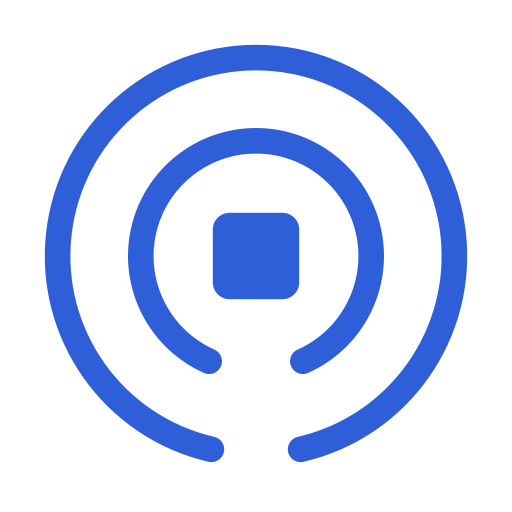
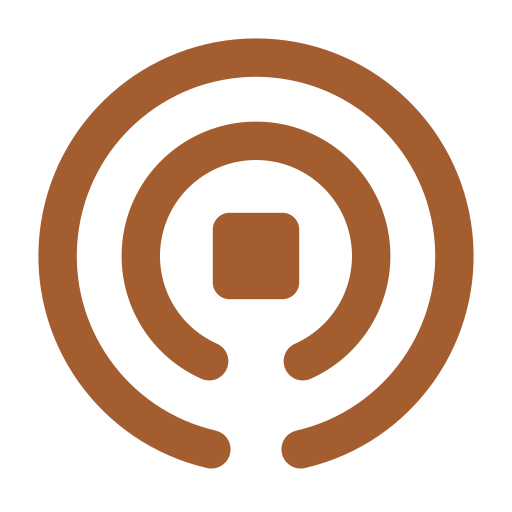
feat(frontend): an earthier palette and a bolder mark

diff --git a/frontend/src/index.css b/frontend/src/index.css
@@ -7,32 +7,32 @@
    sistem" — so removing the attribute always lands somewhere valid. */
 :root {
   --radius: 0.625rem;
-  --background: oklch(0.985 0.002 247);
-  --foreground: oklch(0.21 0.006 285);
-  --card: oklch(1 0 0);
-  --card-foreground: oklch(0.21 0.006 285);
-  --popover: oklch(1 0 0);
-  --popover-foreground: oklch(0.21 0.006 285);
-  --primary: oklch(0.51 0.17 264);
-  --primary-foreground: oklch(0.98 0.005 264);
-  --secondary: oklch(0.967 0.001 286);
-  --secondary-foreground: oklch(0.21 0.006 285);
-  --muted: oklch(0.967 0.001 286);
-  --muted-foreground: oklch(0.552 0.014 285);
-  --accent: oklch(0.967 0.001 286);
-  --accent-foreground: oklch(0.21 0.006 285);
-  --destructive: oklch(0.577 0.245 27);
-  --destructive-foreground: oklch(0.985 0 0);
-  --border: oklch(0.92 0.004 286);
-  --input: oklch(0.92 0.004 286);
-  --ring: oklch(0.51 0.17 264);
-  /* Darker than they look like they should be, and darker than their dark-mode
-     twins below. These two are used as text as often as as fill — a badge, a
-     label, a chip — and amber at 0.75 on a white card is about 2:1, which is
-     not a reading contrast. On the dark ground the bright versions are the
-     correct ones, so only this half moves. */
-  --success: oklch(0.54 0.14 155);
-  --warning: oklch(0.58 0.13 85);
+  --background: oklch(0.985 0.004 75);
+  --foreground: oklch(0.22 0.008 65);
+  --card: oklch(0.997 0.002 75);
+  --card-foreground: oklch(0.22 0.008 65);
+  --popover: oklch(0.997 0.002 75);
+  --popover-foreground: oklch(0.22 0.008 65);
+  --primary: oklch(0.5 0.1 52);
+  --primary-foreground: oklch(0.985 0.004 75);
+  --secondary: oklch(0.955 0.006 75);
+  --secondary-foreground: oklch(0.22 0.008 65);
+  --muted: oklch(0.955 0.006 75);
+  --muted-foreground: oklch(0.53 0.014 68);
+  --accent: oklch(0.955 0.006 75);
+  --accent-foreground: oklch(0.22 0.008 65);
+  --destructive: oklch(0.53 0.17 25);
+  --destructive-foreground: oklch(0.985 0.004 75);
+  --border: oklch(0.905 0.008 75);
+  --input: oklch(0.905 0.008 75);
+  --ring: oklch(0.5 0.1 52);
+  /* Darker than their dark-mode twins below, and darker than they look like
+     they should be. Both are used as text as often as as fill — a badge, a
+     label, a chip — and a bright ochre on a white card is about 2:1, which is
+     not a reading contrast. On the dark ground the light versions are the
+     correct ones, so the two halves are set apart on purpose. */
+  --success: oklch(0.5 0.08 135);
+  --warning: oklch(0.57 0.09 78);
   /* What separates a card from the page. A shadow and nothing else: a card
      lit from the top was the house style of about 2010, and it dates the
      whole app faster than any other single thing. */
@@ -41,27 +41,27 @@
 
 @media (prefers-color-scheme: dark) {
   :root:not([data-theme='light']) {
-    --background: oklch(0.17 0.005 285);
-    --foreground: oklch(0.95 0.002 286);
-    --card: oklch(0.21 0.006 285);
-    --card-foreground: oklch(0.95 0.002 286);
-    --popover: oklch(0.21 0.006 285);
-    --popover-foreground: oklch(0.95 0.002 286);
-    --primary: oklch(0.7 0.14 264);
-    --primary-foreground: oklch(0.17 0.005 285);
-    --secondary: oklch(0.27 0.007 286);
-    --secondary-foreground: oklch(0.95 0.002 286);
-    --muted: oklch(0.27 0.007 286);
-    --muted-foreground: oklch(0.68 0.012 286);
-    --accent: oklch(0.27 0.007 286);
-    --accent-foreground: oklch(0.95 0.002 286);
-    --destructive: oklch(0.68 0.19 24);
+    --background: oklch(0.17 0.007 68);
+    --foreground: oklch(0.95 0.004 75);
+    --card: oklch(0.215 0.008 68);
+    --card-foreground: oklch(0.95 0.004 75);
+    --popover: oklch(0.215 0.008 68);
+    --popover-foreground: oklch(0.95 0.004 75);
+    --primary: oklch(0.72 0.09 55);
+    --primary-foreground: oklch(0.17 0.007 68);
+    --secondary: oklch(0.275 0.009 68);
+    --secondary-foreground: oklch(0.95 0.004 75);
+    --muted: oklch(0.275 0.009 68);
+    --muted-foreground: oklch(0.68 0.014 70);
+    --accent: oklch(0.275 0.009 68);
+    --accent-foreground: oklch(0.95 0.004 75);
+    --destructive: oklch(0.66 0.15 25);
     --destructive-foreground: oklch(0.98 0 0);
     --border: oklch(1 0 0 / 12%);
     --input: oklch(1 0 0 / 16%);
-    --ring: oklch(0.7 0.14 264);
-    --success: oklch(0.7 0.13 155);
-    --warning: oklch(0.79 0.13 85);
+    --ring: oklch(0.72 0.09 55);
+    --success: oklch(0.68 0.09 135);
+    --warning: oklch(0.76 0.09 78);
     /* On a dark ground a shadow barely shows, so the separation is the card
        being lighter than the page and the border being lighter again. */
     --card-shadow: 0 1px 2px oklch(0 0 0 / 40%), 0 8px 24px -12px oklch(0 0 0 / 60%);
@@ -69,27 +69,27 @@
 }
 
 :root[data-theme='dark'] {
-  --background: oklch(0.17 0.005 285);
-  --foreground: oklch(0.95 0.002 286);
-  --card: oklch(0.21 0.006 285);
-  --card-foreground: oklch(0.95 0.002 286);
-  --popover: oklch(0.21 0.006 285);
-  --popover-foreground: oklch(0.95 0.002 286);
-  --primary: oklch(0.7 0.14 264);
-  --primary-foreground: oklch(0.17 0.005 285);
-  --secondary: oklch(0.27 0.007 286);
-  --secondary-foreground: oklch(0.95 0.002 286);
-  --muted: oklch(0.27 0.007 286);
-  --muted-foreground: oklch(0.68 0.012 286);
-  --accent: oklch(0.27 0.007 286);
-  --accent-foreground: oklch(0.95 0.002 286);
-  --destructive: oklch(0.68 0.19 24);
+  --background: oklch(0.17 0.007 68);
+  --foreground: oklch(0.95 0.004 75);
+  --card: oklch(0.215 0.008 68);
+  --card-foreground: oklch(0.95 0.004 75);
+  --popover: oklch(0.215 0.008 68);
+  --popover-foreground: oklch(0.95 0.004 75);
+  --primary: oklch(0.72 0.09 55);
+  --primary-foreground: oklch(0.17 0.007 68);
+  --secondary: oklch(0.275 0.009 68);
+  --secondary-foreground: oklch(0.95 0.004 75);
+  --muted: oklch(0.275 0.009 68);
+  --muted-foreground: oklch(0.68 0.014 70);
+  --accent: oklch(0.275 0.009 68);
+  --accent-foreground: oklch(0.95 0.004 75);
+  --destructive: oklch(0.66 0.15 25);
   --destructive-foreground: oklch(0.98 0 0);
   --border: oklch(1 0 0 / 12%);
   --input: oklch(1 0 0 / 16%);
-  --ring: oklch(0.7 0.14 264);
-  --success: oklch(0.7 0.13 155);
-  --warning: oklch(0.79 0.13 85);
+  --ring: oklch(0.72 0.09 55);
+  --success: oklch(0.68 0.09 135);
+  --warning: oklch(0.76 0.09 78);
   --card-shadow: 0 1px 2px oklch(0 0 0 / 40%), 0 8px 24px -12px oklch(0 0 0 / 60%);
 }
 

diff --git a/frontend/vite.config.ts b/frontend/vite.config.ts
@@ -37,8 +37,12 @@ export default defineConfig({
         display: 'standalone',
         // No orientation lock: this is installed on a laptop as often as a
         // phone, and locking it to portrait is a mobile-only assumption.
-        background_color: '#f6f7f9',
-        theme_color: '#2f5fd8',
+        // Both the page's own warm off-white rather than the accent. A
+        // coloured title bar over a quiet page reads as a browser that has
+        // wandered in; matching it makes the installed app look like one
+        // surface from the top of the screen down.
+        background_color: '#fcfaf7',
+        theme_color: '#fcfaf7',
         icons: [
           // Exact sizes rather than two big ones: Windows picks from this list
           // to build the shortcut icon, and picking beats downscaling.

diff --git a/frontend/index.html b/frontend/index.html
@@ -14,8 +14,8 @@
     <meta name="apple-mobile-web-app-title" content="HQ" />
 
     <!-- Matches the bar the browser paints around the app in each theme. -->
-    <meta name="theme-color" media="(prefers-color-scheme: light)" content="#f6f7f9" />
-    <meta name="theme-color" media="(prefers-color-scheme: dark)" content="#14161a" />
+    <meta name="theme-color" media="(prefers-color-scheme: light)" content="#fcfaf7" />
+    <meta name="theme-color" media="(prefers-color-scheme: dark)" content="#110f0c" />
 
     <script>
       // Runs before first paint so a forced theme does not flash the other one.

diff --git a/frontend/src/components/Logo.tsx b/frontend/src/components/Logo.tsx
@@ -13,7 +13,7 @@ export function Logo({ className }: { className?: string }) {
       className={cn('size-7 shrink-0', className)}
       fill="none"
       stroke="currentColor"
-      strokeWidth="1.6"
+      strokeWidth="2.4"
       strokeLinecap="round"
     >
       <path d="M13.21 28.08 A12.4 12.4 0 1 1 18.79 28.08" />
